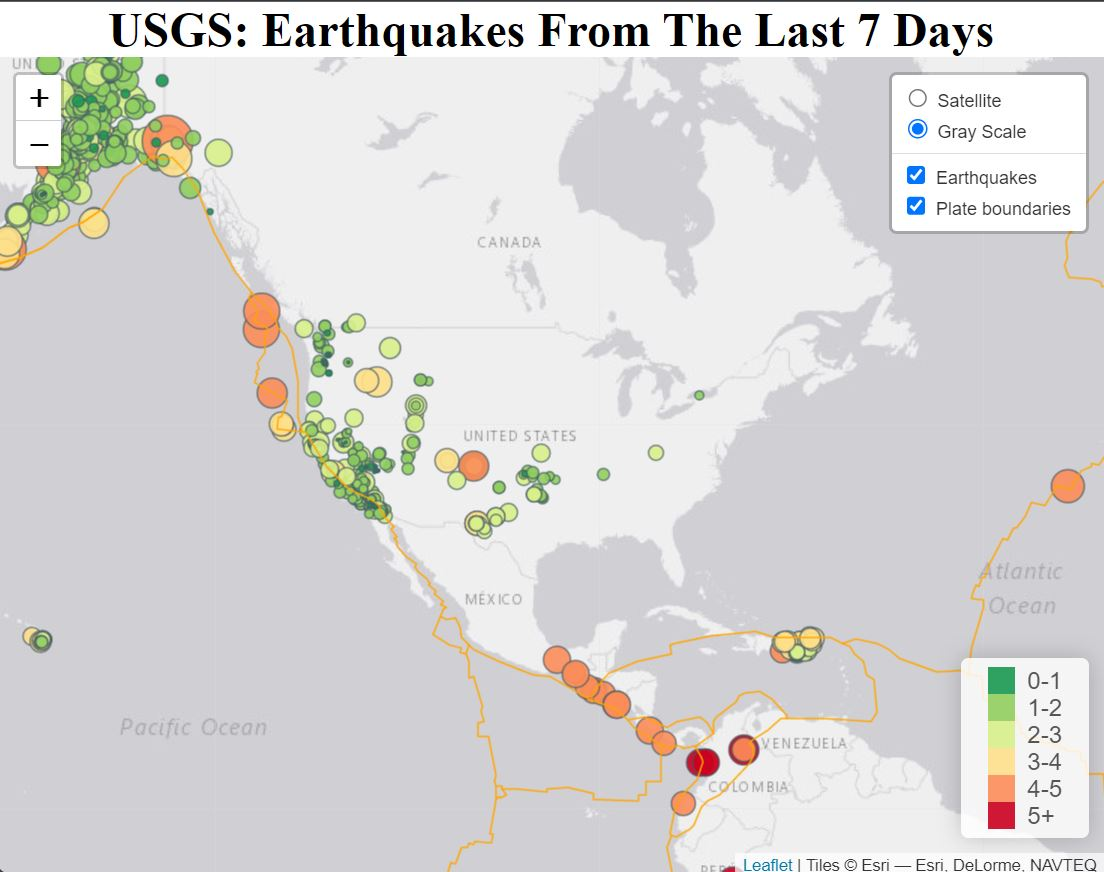
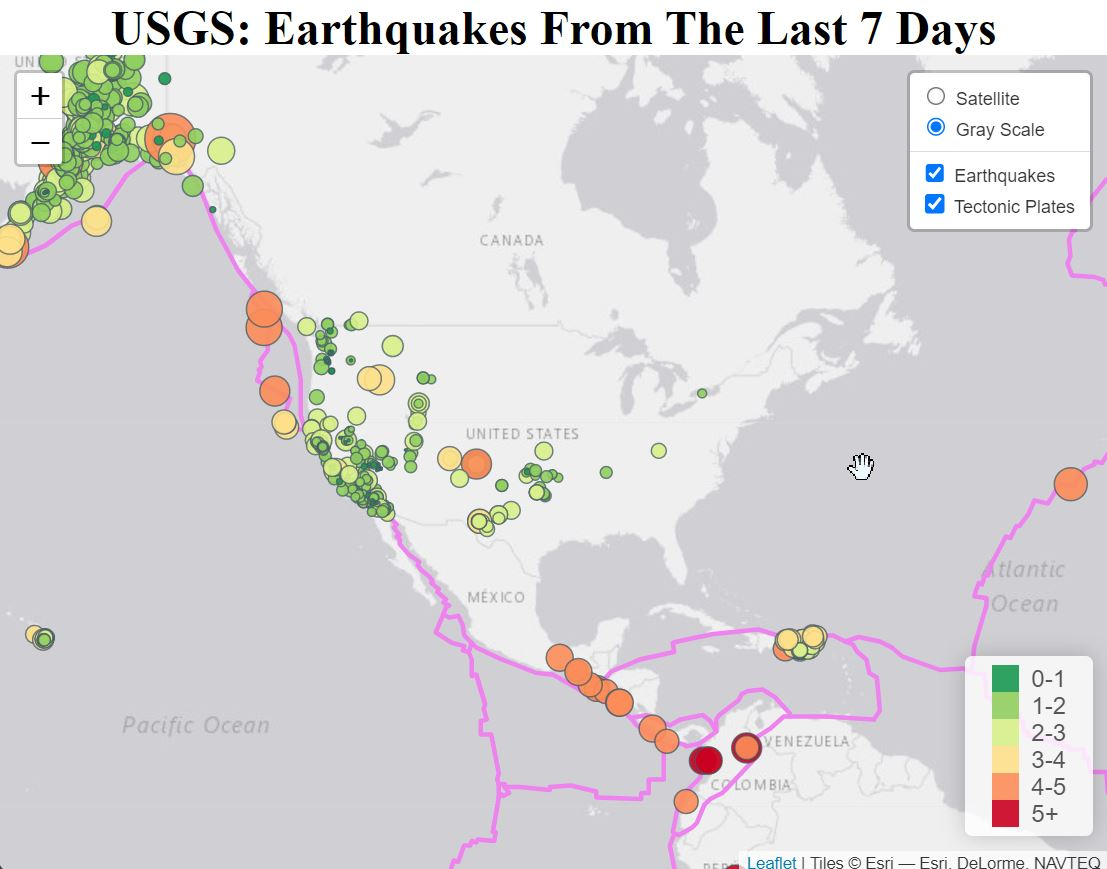
Final version

diff --git a/Leaflet-Part-1-and-2/static/js/logic.js b/Leaflet-Part-1-and-2/static/js/logic.js
@@ -76,8 +76,8 @@ function createFeatures(earthquakeData, plateData) {
   var plates = L.geoJSON(plateData, {
     style: function (feature) {
       return {
-        color: "orange",
-        weight: 1
+        color: "violet",
+        weight: 3
       };
     }
   });
@@ -87,11 +87,6 @@ function createFeatures(earthquakeData, plateData) {
 }
 
 function createMap(earthquakes, plates) {
-
-  var outdoorsMap = L.tileLayer('https://server.arcgisonline.com/ArcGIS/rest/services/World_Physical_Map/MapServer/tile/{z}/{y}/{x}', {
-    attribution: 'Tiles &copy; Esri &mdash; Source: US National Park Service',
-    maxZoom: 18
-  });
 
   var satelliteMap = L.tileLayer('https://server.arcgisonline.com/ArcGIS/rest/services/World_Imagery/MapServer/tile/{z}/{y}/{x}', {
     attribution: 'Tiles &copy; Esri &mdash; Source: Esri, i-cubed, USDA, USGS, AEX, GeoEye, Getmapping, Aerogrid, IGN, IGP, UPR-EGP, and the GIS User Community',
@@ -113,7 +108,7 @@ function createMap(earthquakes, plates) {
   // Create overlay object to hold our overlay layer
   var overlayMaps = {
     'Earthquakes': earthquakes,
-    'Plate boundaries': plates
+    'Tectonic Plates': plates
   };
 
   // Create our map, giving it the satellite and earthquakes layers to display on load

diff --git a/README.md b/README.md
@@ -1,7 +1,5 @@
-
-
 # Earthquake Visualization
-![Logo](https://www.geojs.io/img/logo.png)
+<img src="https://www.geojs.io/img/logo.png" width="800" />
 
 ## Background
 
@@ -15,14 +13,32 @@ The instructions for this activity are broken into two parts:
 
 ### Part 1: Create the Earthquake Visualization
 
+Your first task is to visualize an earthquake dataset. 
+Complete the following steps:
+1.	Get your dataset. To do so, follow these steps:
+	1. The USGS provides earthquake data in a number of different formats, updated every five minutes. 
+	2. 	Visit the [GeoJSON](http://earthquake.usgs.gov/earthquakes/feed/v1.0/geojson.php) page and choose a dataset to visualize.
+	3.	When you click a dataset (such as "All Earthquakes from the Past 7 Days"), you will be given a JSON representation of that data. 
+	4.	Use the URL of this JSON to pull in the data for the visualization. 
+2.	Import and visualize the data by doing the following:
+	1.	Using Leaflet, create a map that plots all the earthquakes from your dataset based on their longitude and latitude.
+	2.	Your data markers should reflect the magnitude of the earthquake by their size and the depth of the earthquake by color. 
+		Earthquakes with higher magnitudes should appear larger, and earthquakes with greater depth should appear darker in color.
+		Hint: The depth of the earth can be found as the third coordinate for each earthquake.
+	3.	Include popups that provide additional information about the earthquake when its associated marker is clicked.
+	4.  Create a legend that will provide context for your map data.
+
 ### Part 2: Gather and Plot More Data 
 
-
+Plot a second dataset on your map to illustrate the relationship between tectonic plates and seismic activity. 
+You will need to pull in this dataset and visualize it alongside your original data. 
+Data on tectonic plates can be found at [Plates](https://github.com/fraxen/tectonicplates)
 
 
 ## Screenshots
 
-![App Screenshot](https://via.placeholder.com/468x300?text=App+Screenshot+Here)
+<img src="https://github.com/VOstapow/leaflet-challenge/blob/main/Leaflet-Part-1-and-2/Images/Satellite.jpg" width="800" />
+<img src="https://github.com/VOstapow/leaflet-challenge/blob/main/Leaflet-Part-1-and-2/Images/GrayScale.jpg" width="800" />
 
 
 
